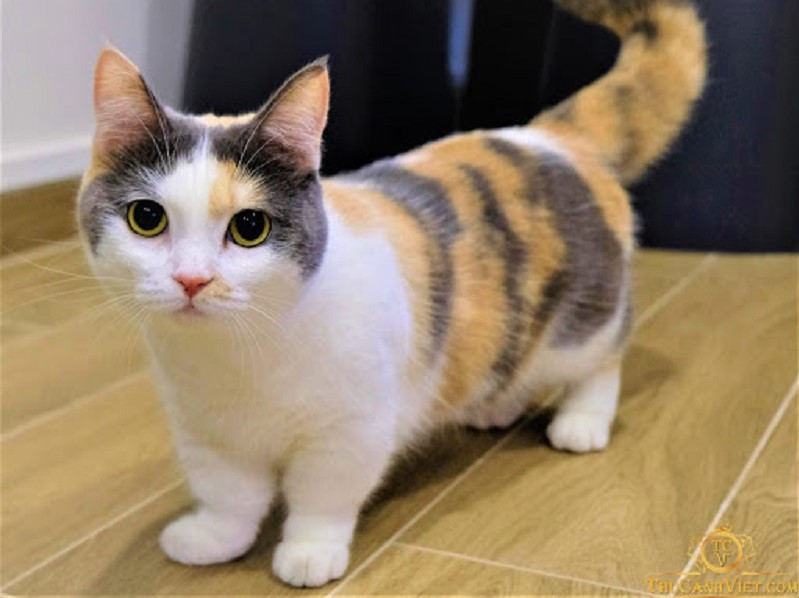
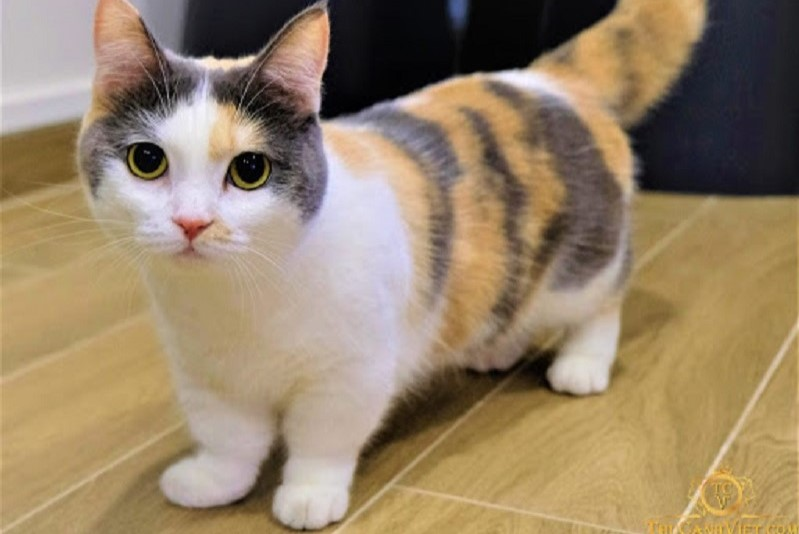
update slider + change cat-img

diff --git a/index.html b/index.html
@@ -35,22 +35,57 @@
             </ul>
           </li>
         </ul>
-        <!--検索ボタン-->
+        <!--Search Button-->
         <div class="search-btn">
           <i class="fa-solid fa-magnifying-glass"></i>
         </div>
-        <!--モバイルメニュー-->
+        <!--Mobile Menu-->
         <div id="mobile-menu" class="mobile-menu">
           <i class="fa-solid fa-bars menu-icon"></i>
         </div>
       </div>
 
       <!--Slider-->
-      <div id="slider">
-        <div class="text-content">
-          <h2 class="text-header">ニャニャ</h2>
-          <div class="text-description">
-            みんなが帰ってくるのを待っています！
+      <div class="grid wide">
+        <div id="slider">
+          <div class="list-img">
+            <img src="./assets/img/slider-cat.jpg" alt="" class="slider-img" />
+            <img src="./assets/img/munchkin.jpg" alt="" class="slider-img" />
+            <img
+              src="./assets/img/anh-long-ngan.jpg"
+              alt=""
+              class="slider-img"
+            />
+            <img
+              src="./assets/img/anh-long-dai.jpg"
+              alt=""
+              class="slider-img"
+            />
+            <img
+              src="./assets/img/scottishfold.jpg"
+              alt=""
+              class="slider-img"
+            />
+            <img
+              src="./assets/img/turkish-angora.jpg"
+              alt=""
+              class="slider-img"
+            />
+            <img src="./assets/img/xiem.jpg" alt="" class="slider-img" />
+          </div>
+          <div class="btns">
+            <div class="prev-btn btn">
+              <i class="fa-solid fa-chevron-left"></i>
+            </div>
+            <div class="next-btn btn">
+              <i class="fa-solid fa-chevron-right"></i>
+            </div>
+          </div>
+          <div class="text-content">
+            <h2 class="text-header">ニャニャ</h2>
+            <div class="text-description">
+              みんなが帰ってくるのを待っています！
+            </div>
           </div>
         </div>
       </div>
@@ -139,7 +174,7 @@
                 <div class="col l-4 m-6 c-12">
                   <div class="cat-item">
                     <img
-                      src="./assets/img/scottishfold.jpeg"
+                      src="./assets/img/scottishfold.jpg"
                       alt="scottishfold"
                       class="cat-img"
                     />
@@ -157,7 +192,7 @@
                 <div class="col l-4 m-6 c-12">
                   <div class="cat-item">
                     <img
-                      src="./assets/img/anh-long-ngan.jpeg"
+                      src="./assets/img/anh-long-ngan.jpg"
                       alt="anh-long-ngan"
                       class="cat-img"
                     />
@@ -191,7 +226,7 @@
                 <div class="col l-4 m-6 c-12">
                   <div class="cat-item">
                     <img
-                      src="./assets/img/turkish-angora.jpeg"
+                      src="./assets/img/turkish-angora.jpg"
                       alt="meo-turkish"
                       class="cat-img"
                     />

diff --git a/index.js b/index.js
@@ -33,7 +33,6 @@ mobileMenu.onclick = function () {
     header.style.height = null;
   }
 };
-
 // Tự động đóng khi click 1 phần tử trong menu
 var menuItems = document.querySelectorAll('#nav li a[href*="#"]');
 for (var i = 0; i < menuItems.length; i++) {
@@ -49,3 +48,38 @@ for (var i = 0; i < menuItems.length; i++) {
     }
   };
 }
+
+// SLider
+const listImg = document.querySelector(".list-img");
+const imgs = document.querySelectorAll(".slider-img");
+const prevBtn = document.querySelector(".prev-btn");
+const nextBtn = document.querySelector(".next-btn");
+let index = 0;
+
+const handleChangeSlide = () => {
+  index = index + 1 < imgs.length ? index + 1 : 0;
+  let width = imgs[0].offsetWidth;
+  listImg.style.transform = `translateX(-${width * index}px)`;
+};
+
+let handleEventChangeSlide = setInterval(() => {
+  handleChangeSlide();
+}, 4000);
+
+nextBtn.addEventListener("click", function () {
+  clearInterval(handleEventChangeSlide);
+  handleChangeSlide();
+  handleEventChangeSlide = setInterval(() => {
+    handleChangeSlide();
+  }, 4000);
+});
+
+prevBtn.addEventListener("click", function () {
+  clearInterval(handleEventChangeSlide);
+  index = index - 1 < 0 ? imgs.length - 1 : index - 1;
+  let width = imgs[0].offsetWidth;
+  listImg.style.transform = `translateX(-${width * index}px)`;
+  handleEventChangeSlide = setInterval(() => {
+    handleChangeSlide();
+  }, 4000);
+});

diff --git a/assets/css/style.css b/assets/css/style.css
@@ -106,11 +106,46 @@ html {
   color: #000;
 }
 
+/* Slider */
+
 #slider {
-  margin-top: 46.5px;
-  padding-top: 50%;
-  background: url("../img/slider-cat.jpg") top center / cover no-repeat;
+  margin-top: 56.5px;
+  width: 100%;
+  overflow: hidden;
   position: relative;
+}
+
+.list-img {
+  display: flex;
+  transition: 0.5s;
+}
+
+.slider-img {
+  width: 100%;
+  height: 600px;
+  object-fit: cover;
+}
+
+.btn {
+  font-size: 45px;
+  color: #999;
+  position: absolute;
+  top: 50%;
+  transform: translateY(-50%);
+  transition: 0.3s;
+}
+
+.btn:hover {
+  color: #fff;
+  cursor: pointer;
+}
+
+.prev-btn {
+  left: 10px;
+}
+
+.next-btn {
+  right: 10px;
 }
 
 #slider .text-content {
@@ -119,13 +154,11 @@ html {
   width: 100%;
   text-align: center;
   color: #fff;
-  text-shadow: 0 0 1px;
+  text-shadow: 1px 1px 2px rgba(0, 0, 0, 0.5);
 }
-
 #slider .text-header {
   font-weight: 500;
 }
-
 #slider .text-description {
   margin-top: 25px;
 }

diff --git a/assets/css/responsive.css b/assets/css/responsive.css
@@ -66,6 +66,15 @@
     color: #fff;
   }
 
+  #slider {
+    margin-top: 46.5px;
+  }
+
+  .slider-img {
+    width: 100%;
+    height: auto;
+  }
+
   #content .service {
     flex-direction: column;
   }
